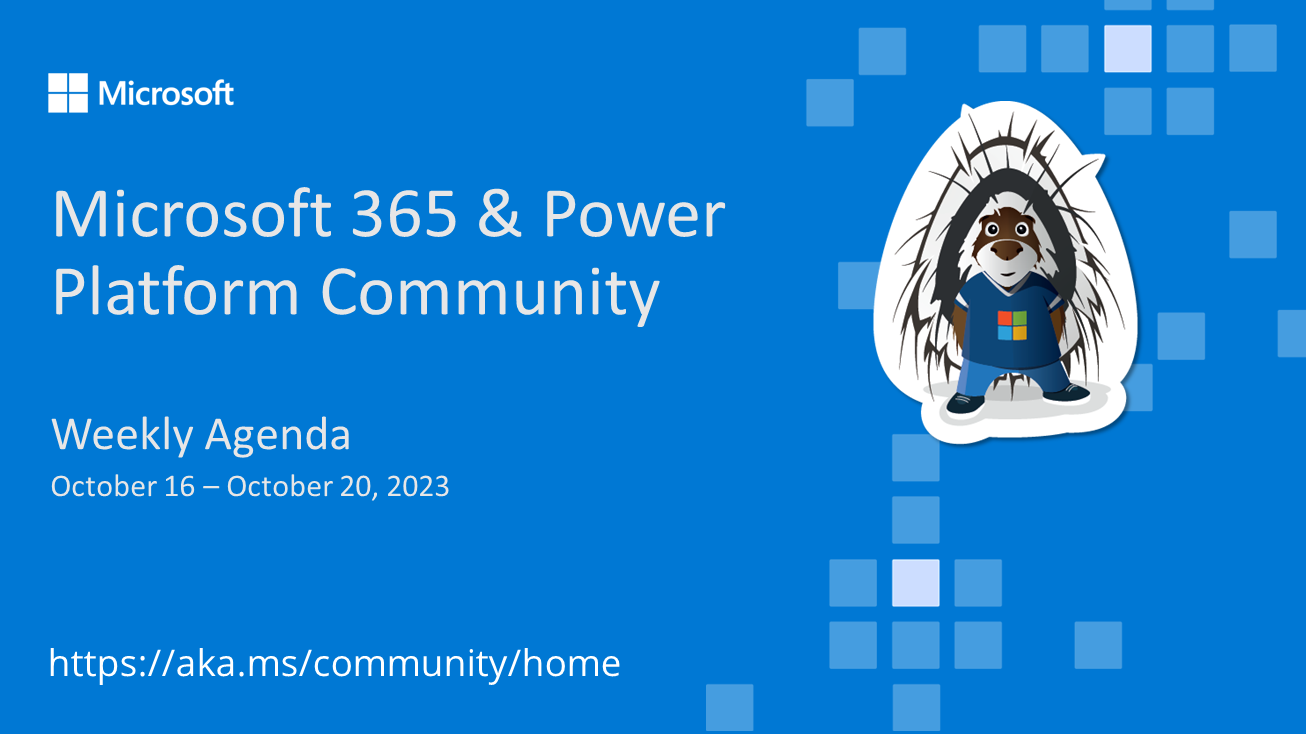
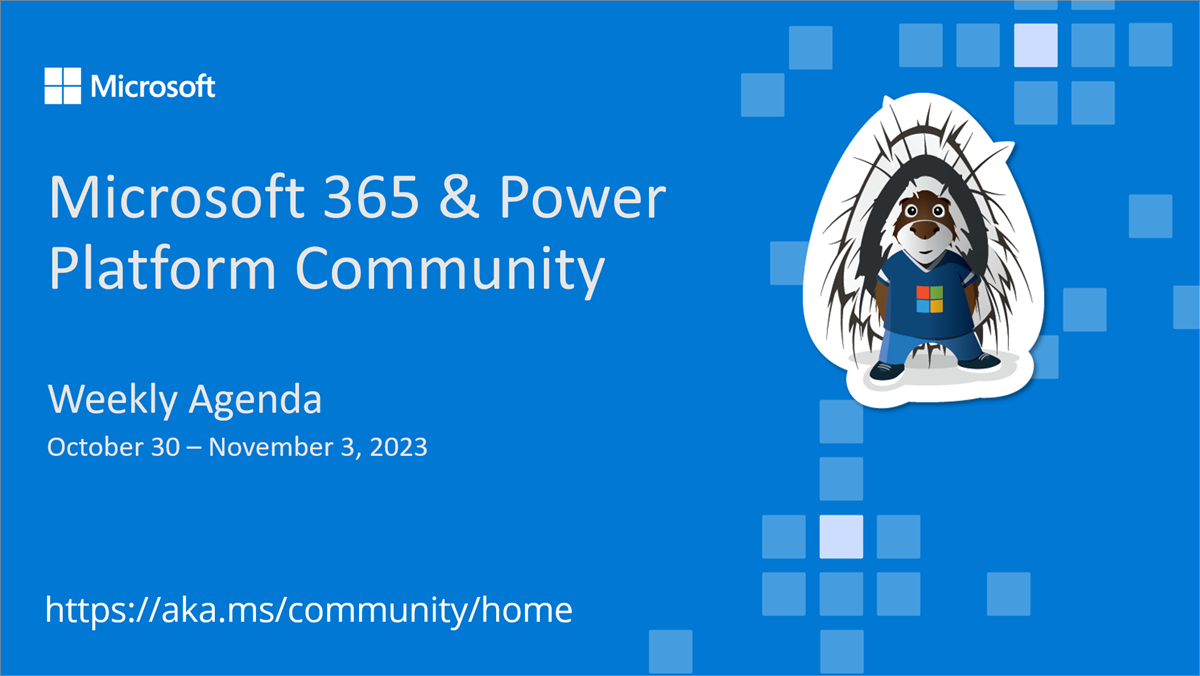
weekly agenda for week 44 (#1627)

diff --git a/content/weekly-agenda/23-10-30/index.md b/content/weekly-agenda/23-10-30/index.md
@@ -1,6 +1,6 @@
 ---
-title: Weekly Agenda - 3th of October 2023 week
-date: 2023-10-20T02:42:53.419Z
+title: Weekly Agenda - 30th of October 2023 week
+date: 2023-10-27T02:42:53.419Z
 author: Vesa Juvonen
 githubname: VesaJuvonen
 categories:
@@ -10,7 +10,7 @@ images:
 tags: []
 type: trending
 videos: null
-draft: true
+draft: false
 ---
 
 We want to give you a better overview on what's happening each week. This is a summary blog post of all the community activities such as community calls and presenters, newly uploaded videos, upcoming events and more 🚀 
@@ -55,6 +55,7 @@ Also: 📷 Picture Time with community in Together Mode!
 
 Update of the newly published videos in our YouTube channel [Microsoft 365 & Power Platform Community](https://www.youtube.com/channel/UC_mKdhw-V6CeCM7gTo_Iy7w) - Subscribe today! ✅
 
+* [Using your Azure Functions securely within your Microsoft 365 solutions](https://www.youtube.com/watch?v=uP2Fo9lh8bY) by [Nico De Cleyre](https://twitter.com/NicoDeCleyre) (DCraftIT) | @NicoDeCleyre
 * [Building Microsoft Teams bot for traffic details with OpenAI function calling](https://www.youtube.com/watch?v=VmCWPzW91W8) by [Anoop Tatti](https://twitter.com/anooptells) (Content+Cloud) | @Anooptells
 * [Getting started with Microsoft Lists - Create or change the view of a list](https://www.youtube.com/watch?v=JvJu2ko_wac)
 * [Automating business processes with custom Power Automate Flows in List Templates](https://www.youtube.com/watch?v=0YuUTlGtO8A) by Alin Sirbu (Microsoft) & Nate Tennant (Microsoft)
@@ -102,6 +103,7 @@ All the latest updates on the Microsoft 365 platform are shared from the [Micros
 
 Here are the last week's community call recordings. You can download recurrent invites to the community calls from https://aka.ms/community/calls.
 
+* [Microsoft 365 & Power Platform Development Community call October 26th, 2023](https://www.youtube.com/watch?v=VriV8z81InQ)
 * [Microsoft 365 & Power Platform weekly call – 24th of October, 2023](https://www.youtube.com/watch?v=5z9LvbDdcO4)
 
 ---
